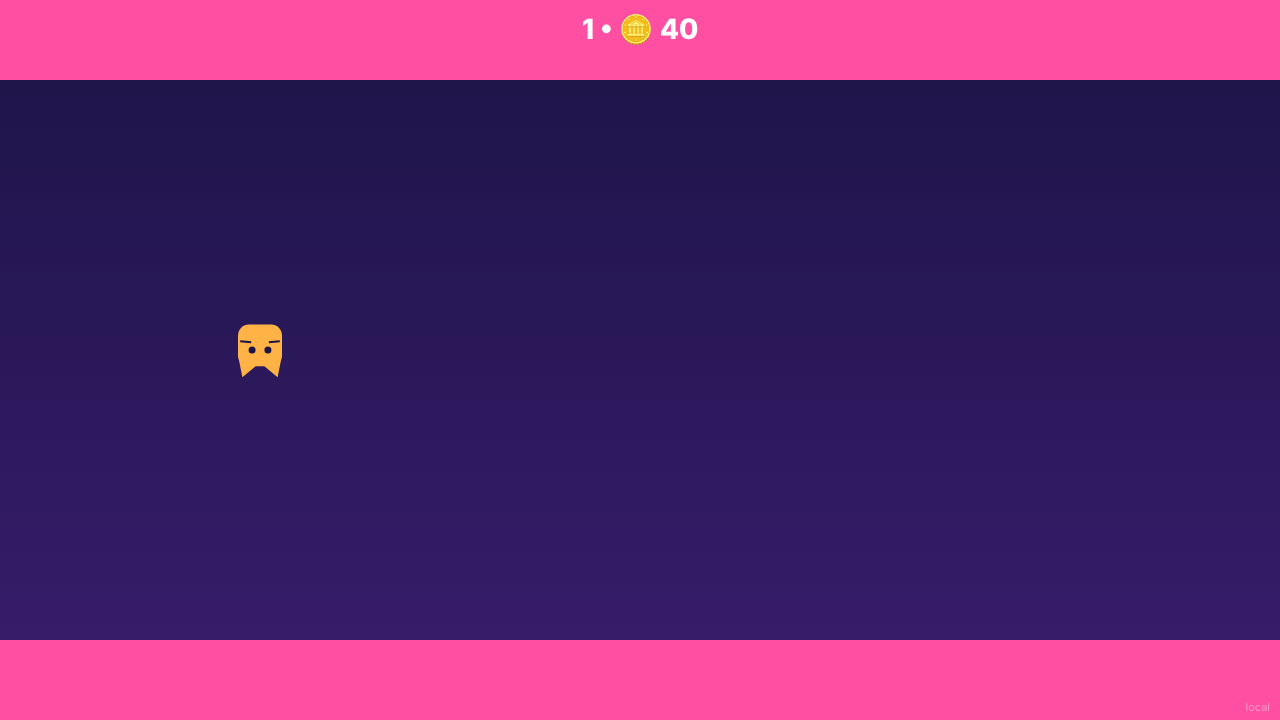
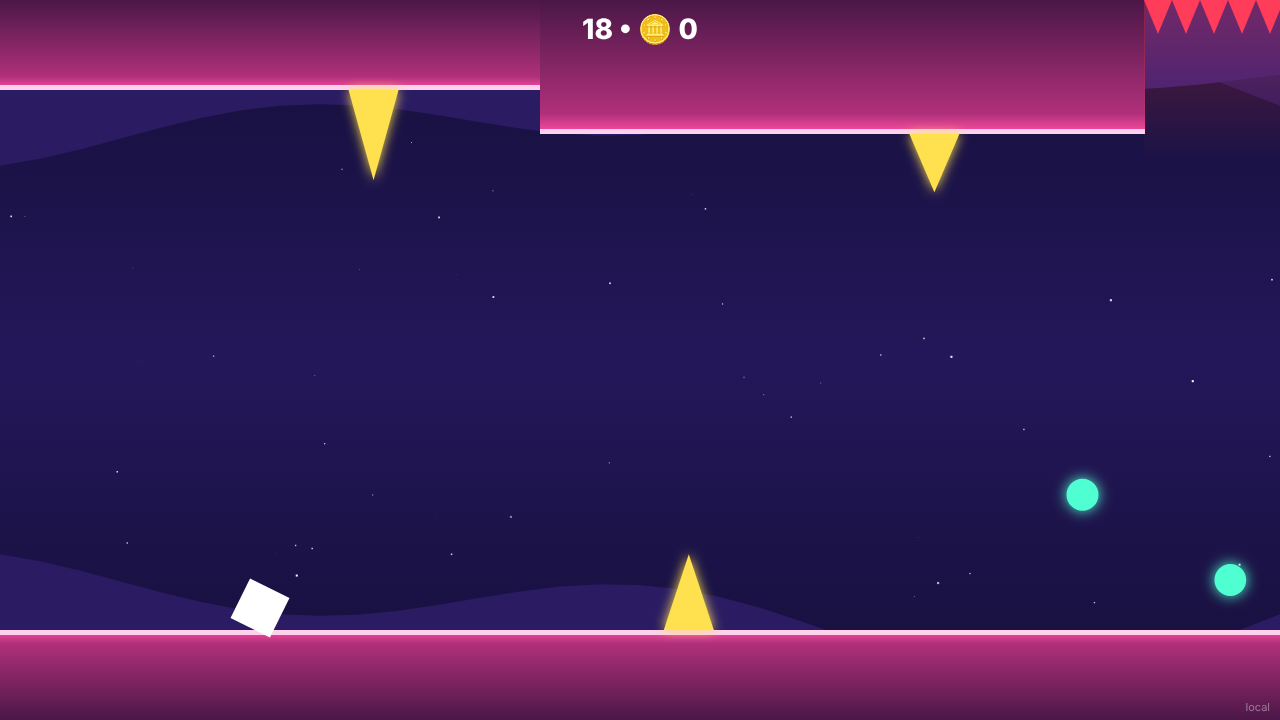
Add stepped cave terrain, trenches and parallax background
Claude-Session: https://claude.ai/code/session_01HPHiwtaLAh1KqFDeZSs2x5

diff --git a/src/world.js b/src/world.js
@@ -1,0 +1,202 @@
+// Procedural cave terrain: floor & ceiling made of segments that step up/down,
+// with occasional trenches ("palung") where the floor or ceiling is missing.
+// All x values are world coordinates; the camera scrolls by `scroll`.
+
+export const W = 1280, H = 720;
+const BASE_FLOOR = H - 90, BASE_CEIL = 90;
+const MIN_GAP = 330;   // minimum free space between ceiling and floor
+const STEP = 44;       // max height change between neighbours (auto-climbable)
+
+const rand = (a, b) => a + Math.random() * (b - a);
+const pick = (arr) => arr[Math.floor(Math.random() * arr.length)];
+
+export function createWorld() {
+  const world = { segs: [], spikes: [], coins: [], end: 0, floor: BASE_FLOOR, ceil: BASE_CEIL, lastPit: true };
+  addSeg(world, 1400, BASE_FLOOR, BASE_CEIL); // flat, safe start
+  return world;
+}
+
+function addSeg(world, w, floor, ceil) {
+  const seg = { x: world.end, w, floor, ceil };
+  world.segs.push(seg);
+  world.end += w;
+  return seg;
+}
+
+// Generate terrain until the world reaches `untilX`. `level` (0..1) scales difficulty.
+export function extend(world, untilX, level) {
+  while (world.end < untilX) {
+    const pitChance = world.lastPit ? 0 : 0.18 + level * 0.22;
+    if (Math.random() < pitChance) {
+      // Trench: remove floor or ceiling. Keep the other side flat so the player can flip over it.
+      const bottom = Math.random() < 0.6;
+      const w = rand(170, 230 + level * 90);
+      const seg = addSeg(world, w, bottom ? null : world.floor, bottom ? world.ceil : null);
+      seg.pit = bottom ? "bottom" : "top";
+      // Reward coin over the trench, on the safe side.
+      const cy = bottom ? world.ceil + 50 : world.floor - 50;
+      world.coins.push({ x: seg.x + w / 2, y: cy, r: 16 });
+      world.lastPit = true;
+      continue;
+    }
+
+    // Normal segment: nudge floor/ceiling by up to one step, staying inside bounds.
+    world.floor = clamp(world.floor + pick([-STEP, 0, 0, STEP]), H - 190, BASE_FLOOR);
+    world.ceil = clamp(world.ceil + pick([-STEP, 0, 0, STEP]), BASE_CEIL, 190);
+    if (world.floor - world.ceil < MIN_GAP) world.ceil = world.floor - MIN_GAP;
+    const w = rand(260, 520);
+    const seg = addSeg(world, w, world.floor, world.ceil);
+    world.lastPit = false;
+
+    // Spike on this segment (not right at the edges so it stays readable).
+    if (Math.random() < 0.55 + level * 0.35) {
+      const top = Math.random() < 0.5;
+      const h = rand(50, 95 + level * 30);
+      world.spikes.push({ x: seg.x + rand(80, w - 130), w: 50, h, top, base: top ? seg.ceil : seg.floor });
+    }
+    if (Math.random() < 0.5) {
+      world.coins.push({ x: seg.x + rand(60, w - 60), y: rand(seg.ceil + 60, seg.floor - 60), r: 16 });
+    }
+  }
+}
+
+// Drop everything that has scrolled off the left side of the screen.
+export function prune(world, scroll) {
+  const left = scroll - 200;
+  world.segs = world.segs.filter((s) => s.x + s.w > left);
+  world.spikes = world.spikes.filter((s) => s.x + s.w > left);
+  world.coins = world.coins.filter((c) => c.x > left && !c.taken);
+}
+
+export function segAt(world, x) {
+  return world.segs.find((s) => x >= s.x && x < s.x + s.w);
+}
+
+// Highest floor / lowest ceiling under the span [x0, x1] (null if only trench below/above).
+export function surfaceUnder(world, x0, x1) {
+  let floor = null, ceil = null;
+  for (const s of world.segs) {
+    if (s.x + s.w <= x0 || s.x >= x1) continue;
+    if (s.floor !== null) floor = floor === null ? s.floor : Math.min(floor, s.floor);
+    if (s.ceil !== null) ceil = ceil === null ? s.ceil : Math.max(ceil, s.ceil);
+  }
+  return { floor, ceil };
+}
+
+function clamp(v, a, b) { return Math.max(a, Math.min(b, v)); }
+
+// ---------- Rendering ----------
+const stars = Array.from({ length: 70 }, () => ({ x: Math.random() * W, y: Math.random() * H, r: Math.random() * 1.8 + 0.4 }));
+
+function silhouette(ctx, scroll, speed, amp, baseY, dir, color) {
+  ctx.fillStyle = color;
+  ctx.beginPath();
+  ctx.moveTo(0, dir > 0 ? H : 0);
+  for (let x = 0; x <= W; x += 40) {
+    const wx = x + scroll * speed;
+    const y = baseY + dir * -amp * (0.5 + 0.5 * Math.sin(wx * 0.006) * Math.cos(wx * 0.0023));
+    ctx.lineTo(x, y);
+  }
+  ctx.lineTo(W, dir > 0 ? H : 0);
+  ctx.fill();
+}
+
+export function drawBackground(ctx, scroll) {
+  const g = ctx.createLinearGradient(0, 0, 0, H);
+  g.addColorStop(0, "#140f38");
+  g.addColorStop(0.5, "#24175a");
+  g.addColorStop(1, "#140f38");
+  ctx.fillStyle = g;
+  ctx.fillRect(0, 0, W, H);
+
+  ctx.fillStyle = "#ffffff";
+  for (const s of stars) {
+    const x = ((s.x - scroll * 0.05) % W + W) % W;
+    ctx.globalAlpha = 0.3 + s.r / 3;
+    ctx.fillRect(x, s.y, s.r, s.r);
+  }
+  ctx.globalAlpha = 1;
+
+  // Far cave walls (stalactites / stalagmites) with parallax.
+  silhouette(ctx, scroll, 0.15, 140, H - 40, 1, "#2a1b63");
+  silhouette(ctx, scroll, 0.15, 140, 40, -1, "#2a1b63");
+  silhouette(ctx, scroll, 0.35, 90, H - 20, 1, "#33207a");
+  silhouette(ctx, scroll, 0.35, 90, 20, -1, "#33207a");
+}
+
+export function drawTerrain(ctx, world, scroll, t) {
+  for (const s of world.segs) {
+    const x = Math.floor(s.x - scroll), w = Math.ceil(s.w) + 1;
+    if (x > W || x + w < 0) continue;
+
+    if (s.floor !== null) {
+      const g = ctx.createLinearGradient(0, s.floor, 0, H);
+      g.addColorStop(0, "#ff4fa3");
+      g.addColorStop(0.15, "#b0307a");
+      g.addColorStop(1, "#4a1747");
+      ctx.fillStyle = g;
+      ctx.fillRect(x, s.floor, w, H - s.floor);
+      ctx.fillStyle = "#ffd1ec";
+      ctx.fillRect(x, s.floor, w, 5);
+    }
+    if (s.ceil !== null) {
+      const g = ctx.createLinearGradient(0, 0, 0, s.ceil);
+      g.addColorStop(0, "#4a1747");
+      g.addColorStop(0.85, "#b0307a");
+      g.addColorStop(1, "#ff4fa3");
+      ctx.fillStyle = g;
+      ctx.fillRect(x, 0, w, s.ceil);
+      ctx.fillStyle = "#ffd1ec";
+      ctx.fillRect(x, s.ceil - 5, w, 5);
+    }
+
+    // Trench: glowing abyss + warning stripes at the lip.
+    if (s.pit) {
+      const bottom = s.pit === "bottom";
+      const pulse = 0.55 + 0.25 * Math.sin(t * 5);
+      const g = bottom ? ctx.createLinearGradient(0, H - 160, 0, H) : ctx.createLinearGradient(0, 160, 0, 0);
+      g.addColorStop(0, "rgba(255,60,60,0)");
+      g.addColorStop(1, `rgba(255,60,60,${pulse})`);
+      ctx.fillStyle = g;
+      ctx.fillRect(x, bottom ? H - 160 : 0, w, 160);
+      // jagged teeth at the bottom of the trench
+      ctx.fillStyle = "#ff3c5a";
+      ctx.beginPath();
+      for (let i = 0; i < w; i += 28) {
+        const y0 = bottom ? H : 0, tip = bottom ? H - 34 : 34;
+        ctx.moveTo(x + i, y0); ctx.lineTo(x + i + 14, tip); ctx.lineTo(x + i + 28, y0);
+      }
+      ctx.fill();
+    }
+  }
+}
+
+export function drawSpikes(ctx, world, scroll) {
+  ctx.fillStyle = "#ffe14f";
+  ctx.shadowColor = "#ffe14f";
+  ctx.shadowBlur = 12;
+  for (const o of world.spikes) {
+    const x = o.x - scroll;
+    if (x > W + 60 || x < -60) continue;
+    ctx.beginPath();
+    const dir = o.top ? 1 : -1;
+    ctx.moveTo(x, o.base); ctx.lineTo(x + o.w, o.base); ctx.lineTo(x + o.w / 2, o.base + dir * o.h);
+    ctx.fill();
+  }
+  ctx.shadowBlur = 0;
+}
+
+export function drawCoins(ctx, world, scroll, t) {
+  for (const c of world.coins) {
+    const x = c.x - scroll;
+    if (x > W + 40 || x < -40) continue;
+    const sx = Math.abs(Math.cos(t * 4 + c.x)); // spinning coin
+    ctx.fillStyle = "#4fffd2";
+    ctx.shadowColor = "#4fffd2";
+    ctx.shadowBlur = 14;
+    ctx.beginPath();
+    ctx.ellipse(x, c.y, c.r * (0.3 + 0.7 * sx), c.r, 0, 0, Math.PI * 2);
+    ctx.fill();
+  }
+  ctx.shadowBlur = 0;
+}

diff --git a/src/game.js b/src/game.js
@@ -2,8 +2,11 @@
 // Tap / click / space flips gravity. Avoid the spikes. Collect coins.
 import { createPlatform } from "./sdk/adapter.js";
 import { SKINS, getSkin } from "./skins.js";
+import {
+  W, H, createWorld, extend, prune, surfaceUnder,
+  drawBackground, drawTerrain, drawSpikes, drawCoins,
+} from "./world.js";
 
-const W = 1280, H = 720; // 16:9 logical resolution (Poki requirement)
 const canvas = document.getElementById("game");
 const ctx = canvas.getContext("2d");
 const ui = {
@@ -32,12 +35,13 @@ let save = { best: 0, coins: 0, skin: "classic", owned: ["classic"] };
 let state = "menu";            // menu | play | over | ad | shop
 let shopReturn = null;         // panel to show again when the shop closes
 let runs = 0, lastAdAt = 0, revived = false;
-let player, obstacles, pickups, speed, distance, score, spawnTimer, last;
+let player, world, scroll, speed, score, last, time = 0;
 
 function reset() {
-  player = { x: 260, y: H - 120, vy: 0, size: 44, gravity: 1, rot: 0 };
-  obstacles = []; pickups = [];
-  speed = 420; distance = 0; score = 0; spawnTimer = 0.8;
+  player = { x: 260, y: H - 160, vy: 0, size: 44, gravity: 1, rot: 0 };
+  world = createWorld();
+  scroll = 0; speed = 420; score = 0;
+  extend(world, W * 2, 0);
   revived = false;
 }
 
@@ -89,7 +93,18 @@ async function revive() {
   const earned = await withAd(() => platform.rewarded());
   if (earned) {
     revived = true;
-    obstacles = obstacles.filter((o) => o.x > player.x + 400 || o.x < player.x - 100);
+    // Clear nearby hazards and drop the player back on a safe flat strip.
+    const wx = scroll + player.x;
+    world.spikes = world.spikes.filter((o) => o.x > wx + 500 || o.x < wx - 100);
+    for (const seg of world.segs) {
+      if (seg.x + seg.w > wx - 100 && seg.x < wx + 500) {
+        seg.pit = null;
+        seg.floor = seg.floor ?? H - 90;
+        seg.ceil = seg.ceil ?? 90;
+      }
+    }
+    player.y = surfaceUnder(world, wx - 30, wx + 30).floor - player.size / 2;
+    player.gravity = 1; player.vy = 0;
     state = "play";
     platform.gameplayStart();
     last = performance.now();
@@ -166,79 +181,53 @@ function flip() {
   player.vy = 0;
 }
 
-function spawn() {
-  const top = Math.random() < 0.5;
-  const h = 60 + Math.random() * 120;
-  obstacles.push({ x: W + 40, w: 50, h, top });
-  if (Math.random() < 0.6) {
-    pickups.push({ x: W + 220, y: 160 + Math.random() * (H - 320), r: 16 });
-  }
-}
-
-const FLOOR = H - 80, CEIL = 80;
+const CLIMB = 48; // step height the player walks up automatically
 
 function update(dt) {
   speed += dt * 8;
-  distance += speed * dt;
-  score = Math.floor(distance / 100);
+  scroll += speed * dt;
+  score = Math.floor(scroll / 100);
+  extend(world, scroll + W * 2, Math.min(1, scroll / 40000));
+  prune(world, scroll);
 
+  const half = player.size / 2;
+  const wx = scroll + player.x;
   player.vy += 2600 * player.gravity * dt;
   player.y += player.vy * dt;
-  const half = player.size / 2;
-  if (player.y > FLOOR - half) { player.y = FLOOR - half; player.vy = 0; }
-  if (player.y < CEIL + half) { player.y = CEIL + half; player.vy = 0; }
   player.rot += dt * 6;
 
-  spawnTimer -= dt;
-  if (spawnTimer <= 0) {
-    spawn();
-    spawnTimer = Math.max(0.55, 1.3 - speed / 1500) + Math.random() * 0.4;
-  }
+  // Hitting the side of a wall (e.g. the far edge of a trench) is fatal.
+  const front = surfaceUnder(world, wx + half - 4, wx + half);
+  if (front.floor !== null && player.y + half > front.floor + CLIMB) return gameOver();
+  if (front.ceil !== null && player.y - half < front.ceil - CLIMB) return gameOver();
 
-  for (const o of obstacles) o.x -= speed * dt;
-  for (const p of pickups) p.x -= speed * dt;
-  obstacles = obstacles.filter((o) => o.x + o.w > -50);
-  pickups = pickups.filter((p) => p.x > -50 && !p.taken);
+  // Land on floor / ceiling (small steps are climbed automatically).
+  const under = surfaceUnder(world, wx - half + 4, wx + half - 4);
+  if (under.floor !== null && player.y + half > under.floor) { player.y = under.floor - half; player.vy = Math.min(player.vy, 0); }
+  if (under.ceil !== null && player.y - half < under.ceil) { player.y = under.ceil + half; player.vy = Math.max(player.vy, 0); }
 
-  const px = player.x - half + 6, py = player.y - half + 6, ps = player.size - 12;
-  for (const o of obstacles) {
-    const oy = o.top ? CEIL : FLOOR - o.h;
-    if (px < o.x + o.w && px + ps > o.x && py < oy + o.h && py + ps > oy) return gameOver();
+  // Fell into a trench.
+  if (player.y - half > H || player.y + half < 0) return gameOver();
+
+  const px = wx - half + 6, py = player.y - half + 6, ps = player.size - 12;
+  for (const o of world.spikes) {
+    const ox = o.x + o.w * 0.2, ow = o.w * 0.6;
+    const oy = o.top ? o.base : o.base - o.h;
+    if (px < ox + ow && px + ps > ox && py < oy + o.h && py + ps > oy) return gameOver();
   }
-  for (const p of pickups) {
-    if (Math.hypot(p.x - player.x, p.y - player.y) < p.r + half) {
-      p.taken = true;
+  for (const c of world.coins) {
+    if (!c.taken && Math.hypot(c.x - wx, c.y - player.y) < c.r + half) {
+      c.taken = true;
       save.coins++;
     }
   }
 }
 
 function draw() {
-  const g = ctx.createLinearGradient(0, 0, 0, H);
-  g.addColorStop(0, "#1b1446");
-  g.addColorStop(1, "#3a1d6e");
-  ctx.fillStyle = g;
-  ctx.fillRect(0, 0, W, H);
-
-  ctx.fillStyle = "#ff4fa3";
-  ctx.fillRect(0, 0, W, CEIL);
-  ctx.fillRect(0, FLOOR, W, H - FLOOR);
-
-  ctx.fillStyle = "#ffe14f";
-  for (const o of obstacles) {
-    ctx.beginPath();
-    if (o.top) {
-      ctx.moveTo(o.x, CEIL); ctx.lineTo(o.x + o.w, CEIL); ctx.lineTo(o.x + o.w / 2, CEIL + o.h);
-    } else {
-      ctx.moveTo(o.x, FLOOR); ctx.lineTo(o.x + o.w, FLOOR); ctx.lineTo(o.x + o.w / 2, FLOOR - o.h);
-    }
-    ctx.fill();
-  }
-
-  ctx.fillStyle = "#4fffd2";
-  for (const p of pickups) {
-    ctx.beginPath(); ctx.arc(p.x, p.y, p.r, 0, Math.PI * 2); ctx.fill();
-  }
+  drawBackground(ctx, scroll);
+  drawTerrain(ctx, world, scroll, time);
+  drawSpikes(ctx, world, scroll);
+  drawCoins(ctx, world, scroll, time);
 
   if (player) {
     const skin = getSkin(save.skin);
@@ -256,6 +245,7 @@ function draw() {
 function loop(now) {
   const dt = Math.min(0.033, (now - last) / 1000 || 0);
   last = now;
+  time += dt;
   if (state === "play") update(dt);
   draw();
   requestAnimationFrame(loop);

diff --git a/README.md b/README.md
@@ -21,6 +21,12 @@ Ganti `?platform=` dengan `poki`, `crazygames`, `youtube`, atau `facebook` untuk
 - `src/sdk/adapter.js`: satu antarmuka untuk semua platform:
   `init`, `loadingFinished`, `gameplayStart/Stop`, `interstitial`, `rewarded`, `save/load`
 
+## Dunia gua
+- Lantai & langit-langit **berundak** naik-turun (undakan kecil dinaiki otomatis).
+- **Palung**: bagian lantai/langit-langit yang hilang. Jatuh = kalah, jadi balik gravitasi sebelum palung. Ada koin bonus di atas palung.
+- Background **parallax** (bintang + siluet stalaktit/stalagmit). Palung & duri makin sering seiring jarak.
+- Kode: `src/world.js`.
+
 ## Toko Skin
 7 skin (Klasik, Neon, Slime, Kucing, Robot, Api, Bintang Emas) dibeli dengan koin hasil bermain. Untuk menambah skin, cukup tambahkan objek baru di `SKINS` pada `src/skins.js`.
 
